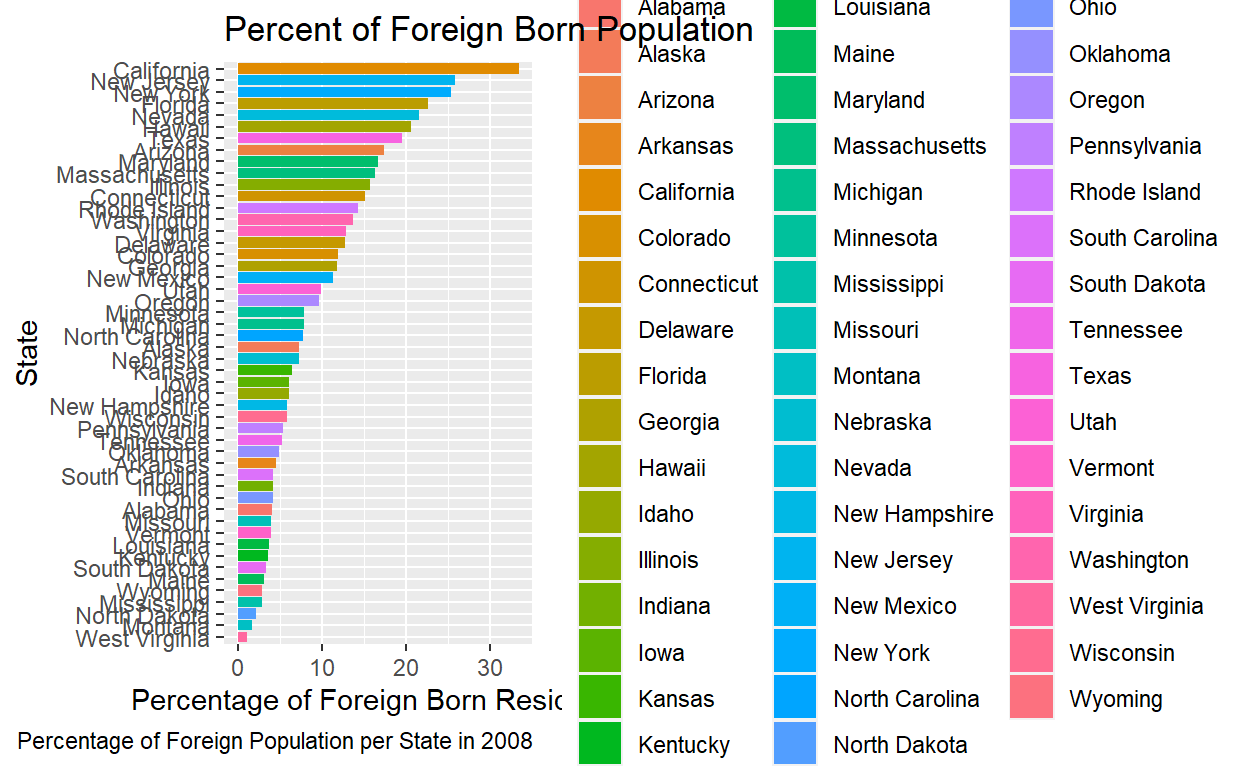
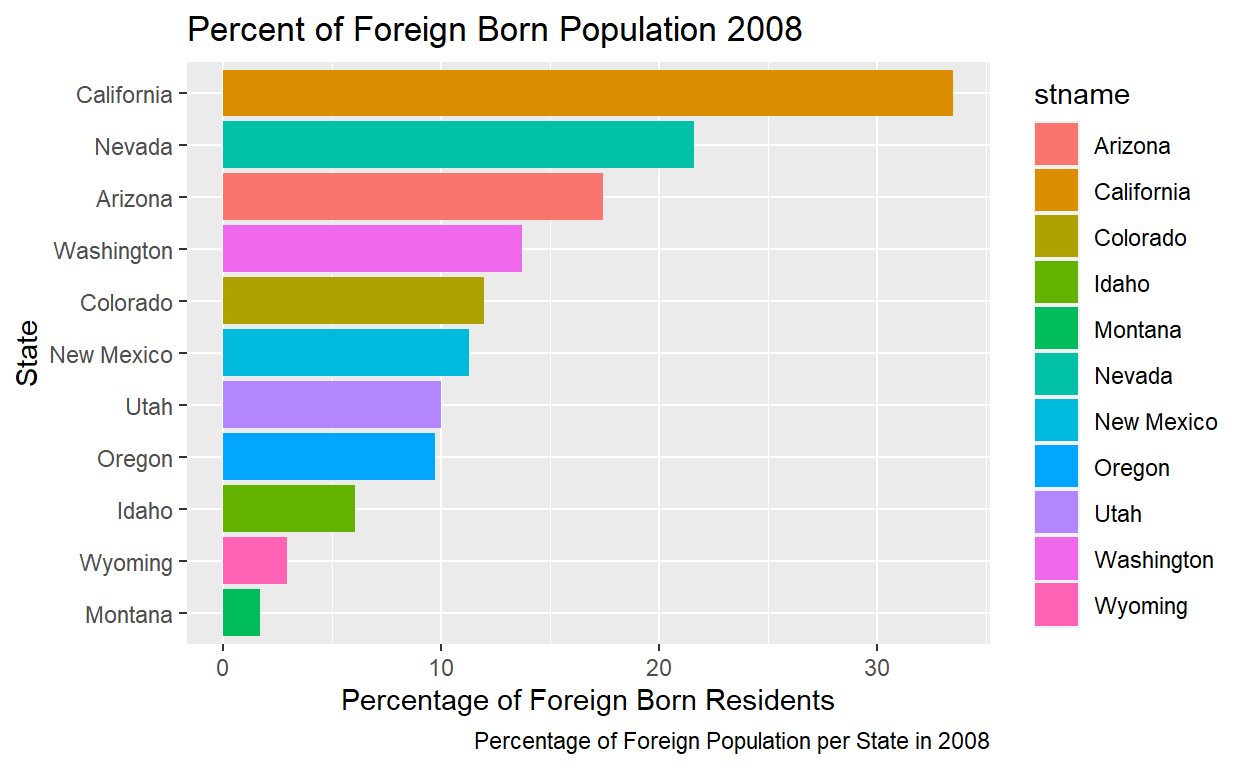
2 Visualizations

diff --git a/index.html b/index.html
@@ -115,7 +115,7 @@ code span.wa { color: #5e5e5e; font-style: italic; } /* Warning */
   <!--/radix_placeholder_rmarkdown_metadata-->
   
   <script type="text/json" id="radix-resource-manifest">
-  {"type":"character","attributes":{},"value":["index_files/anchor-4.2.2/anchor.min.js","index_files/bowser-1.9.3/bowser.min.js","index_files/distill-2.2.21/template.v2.js","index_files/figure-html5/unnamed-chunk-1-1.png","index_files/header-attrs-2.17/header-attrs.js","index_files/header-attrs-2.24/header-attrs.js","index_files/jquery-3.6.0/jquery-3.6.0.js","index_files/jquery-3.6.0/jquery-3.6.0.min.js","index_files/jquery-3.6.0/jquery-3.6.0.min.map","index_files/popper-2.6.0/popper.min.js","index_files/tippy-6.2.7/tippy-bundle.umd.min.js","index_files/tippy-6.2.7/tippy-light-border.css","index_files/tippy-6.2.7/tippy.css","index_files/tippy-6.2.7/tippy.umd.min.js","index_files/webcomponents-2.0.0/webcomponents.js","Raw data for Table1--Foreign-born population, 1996 and 2008.xlsx"]}
+  {"type":"character","attributes":{},"value":["FieldExp_Public.dta","index_files/anchor-4.2.2/anchor.min.js","index_files/bowser-1.9.3/bowser.min.js","index_files/distill-2.2.21/template.v2.js","index_files/figure-html5/unnamed-chunk-1-1.png","index_files/figure-html5/unnamed-chunk-1-2.png","index_files/figure-html5/unnamed-chunk-2-1.png","index_files/header-attrs-2.17/header-attrs.js","index_files/header-attrs-2.24/header-attrs.js","index_files/jquery-3.6.0/jquery-3.6.0.js","index_files/jquery-3.6.0/jquery-3.6.0.min.js","index_files/jquery-3.6.0/jquery-3.6.0.min.map","index_files/popper-2.6.0/popper.min.js","index_files/tippy-6.2.7/tippy-bundle.umd.min.js","index_files/tippy-6.2.7/tippy-light-border.css","index_files/tippy-6.2.7/tippy.css","index_files/tippy-6.2.7/tippy.umd.min.js","index_files/webcomponents-2.0.0/webcomponents.js","Raw data for Table1--Foreign-born population, 1996 and 2008.xlsx"]}
   </script>
   <!--radix_placeholder_navigation_in_header-->
   <!--/radix_placeholder_navigation_in_header-->
@@ -1518,7 +1518,8 @@ code span.wa { color: #5e5e5e; font-style: italic; } /* Warning */
 
 <div class="d-article">
 <h2 id="project-thoughts">Project thoughts</h2>
-<h2 id="new-research-question-for-milestone-2">New Research Question for Milestone 2</h2>
+<h2 id="milestone-4-is-on-parental-discrimination-on-the-bottom-of-this-page.">Milestone 4 is on Parental Discrimination on the bottom of this page.</h2>
+<p>New Project Idea found at the bottom of this page</p>
 <p>Does opinion about the country’s economic situation impact a willingness to accept cultural pluralism?</p>
 <p>I hypothesize that higher citizen concern with the country’s economic situation is connected to a negative impact on the citizens’ opinions on cultural pluralism within the United States. Throughout history, acts of xenophia and hate have emerged from the scapegoating of different groups people for a country’s problems, including financial crisis. I want to conduct a study that explores this relationship in the United States; I expect to see support for cultural pluralism decrease with concerns for the United States economic standing.</p>
 <p>I will use a study conducted by Pew Research Center in 2021. The explanatory variable will be the answer to the following question:“Thinking about our economic situation, how would you describe the current economic situation in the U.S.? … (1)Very Good, (2)Somewhat Good, (3)Somewhat Bad, (4) Very Bad. Higher numbers will be recorded as a less positive view of the country’s economy. For my outcome variable I will be using the results from the following question:”Overall, do you think having people of many different backgrounds, such as different ethnic groups, religions and races, makes the U.S. … (1) A better place to live, (2) A worse place to live.” Answering “yes” (or recording a 1) to the question will be interpreted as a yes to cultural pluralism, and answering “no” (or recording a 2) will be considered a no.</p>
@@ -1533,18 +1534,110 @@ politics$GAP21Q1_W82</p>
 <span><span class='kw'><a href='https://rdrr.io/r/base/library.html'>library</a></span><span class='op'>(</span><span class='va'><a href='https://readxl.tidyverse.org'>readxl</a></span><span class='op'>)</span></span>
 <span><span class='kw'><a href='https://rdrr.io/r/base/library.html'>library</a></span><span class='op'>(</span><span class='va'><a href='https://ggplot2.tidyverse.org'>ggplot2</a></span><span class='op'>)</span></span>
 <span></span>
-<span><span class='va'>Foreign</span> <span class='op'>&lt;-</span> <span class='fu'><a href='https://readxl.tidyverse.org/reference/read_excel.html'>read_excel</a></span><span class='op'>(</span><span class='st'>"Raw data for Table1--Foreign-born population, 1996 and 2008.xlsx"</span><span class='op'>)</span></span>
+<span><span class='va'>Foreign</span> <span class='op'>&lt;-</span> <span class='fu'><a href='https://rdrr.io/pkg/readxl/man/read_excel.html'>read_excel</a></span><span class='op'>(</span><span class='st'>"Raw data for Table1--Foreign-born population, 1996 and 2008.xlsx"</span><span class='op'>)</span></span>
 <span></span>
-<span><span class='va'>fpop</span> <span class='op'>&lt;-</span> <span class='va'>Foreign</span><span class='op'>|&gt;</span></span>
-<span>  <span class='fu'><a href='https://dplyr.tidyverse.org/reference/filter.html'>filter</a></span><span class='op'>(</span><span class='va'>year</span> <span class='op'>==</span> <span class='fl'>2008</span><span class='op'>)</span><span class='op'>|&gt;</span></span>
-<span>  <span class='fu'><a href='https://ggplot2.tidyverse.org/reference/ggplot.html'>ggplot</a></span><span class='op'>(</span><span class='va'>data</span>, mapping <span class='op'>=</span> <span class='fu'><a href='https://ggplot2.tidyverse.org/reference/aes.html'>aes</a></span><span class='op'>(</span>y<span class='op'>=</span><span class='fu'><a href='https://forcats.tidyverse.org/reference/fct_reorder.html'>fct_reorder</a></span><span class='op'>(</span><span class='va'>state.name</span>,<span class='va'>pforeign</span><span class='op'>)</span>, x<span class='op'>=</span><span class='va'>pforeign</span><span class='op'>)</span><span class='op'>)</span> <span class='op'>+</span> </span>
-<span>    <span class='fu'><a href='https://ggplot2.tidyverse.org/reference/geom_bar.html'>geom_col</a></span><span class='op'>(</span>mapping <span class='op'>=</span> <span class='fu'><a href='https://ggplot2.tidyverse.org/reference/aes.html'>aes</a></span><span class='op'>(</span>fill <span class='op'>=</span> <span class='va'>state.name</span><span class='op'>)</span><span class='op'>)</span> <span class='op'>+</span> <span class='fu'><a href='https://ggplot2.tidyverse.org/reference/labs.html'>labs</a></span><span class='op'>(</span>title <span class='op'>=</span> <span class='st'>"Percent of Foreign Born Population"</span>, color <span class='op'>=</span> <span class='st'>"State"</span>,caption<span class='op'>=</span><span class='st'>"Percentage of Foreign Population per State in 2008"</span>, x<span class='op'>=</span><span class='st'>"Percentage of Foreign Born Residents"</span>, y<span class='op'>=</span><span class='st'>"State"</span><span class='op'>)</span></span>
 <span></span>
-<span><span class='va'>fpop</span></span></code></pre>
+<span><span class='va'>west</span> <span class='op'>&lt;-</span> <span class='fu'><a href='https://rdrr.io/r/base/c.html'>c</a></span><span class='op'>(</span><span class='st'>"Arizona"</span>, <span class='st'>"California"</span>, <span class='st'>"Colorado"</span>, <span class='st'>"Idaho"</span>, <span class='st'>"Montana"</span>, <span class='st'>"Nevada"</span>, <span class='st'>"New Mexico"</span>, <span class='st'>"Oregon"</span>,<span class='st'>"Utah"</span>, <span class='st'>"Washington"</span>, <span class='st'>"Wyoming"</span><span class='op'>)</span></span>
+<span></span>
+<span></span>
+<span><span class='va'>fpop_2008</span> <span class='op'>&lt;-</span> <span class='va'>Foreign</span><span class='op'>|&gt;</span></span>
+<span>  <span class='fu'><a href='https://rdrr.io/pkg/dplyr/man/filter.html'>filter</a></span><span class='op'>(</span><span class='va'>year</span> <span class='op'>==</span> <span class='fl'>2008</span>, <span class='va'>stname</span> <span class='op'><a href='https://rdrr.io/r/base/match.html'>%in%</a></span> <span class='va'>west</span><span class='op'>)</span></span>
+<span></span>
+<span><span class='va'>fpop_2008_table</span> <span class='op'>&lt;-</span> <span class='va'>fpop_2008</span><span class='op'>|&gt;</span></span>
+<span>  <span class='fu'><a href='https://rdrr.io/pkg/ggplot2/man/ggplot.html'>ggplot</a></span><span class='op'>(</span><span class='va'>data</span>, mapping <span class='op'>=</span> <span class='fu'><a href='https://rdrr.io/pkg/ggplot2/man/aes.html'>aes</a></span><span class='op'>(</span>y<span class='op'>=</span><span class='fu'><a href='https://rdrr.io/pkg/forcats/man/fct_reorder.html'>fct_reorder</a></span><span class='op'>(</span><span class='va'>stname</span>,<span class='va'>pforeign</span><span class='op'>)</span>, x<span class='op'>=</span><span class='va'>pforeign</span><span class='op'>)</span><span class='op'>)</span> <span class='op'>+</span> </span>
+<span>    <span class='fu'><a href='https://rdrr.io/pkg/ggplot2/man/geom_bar.html'>geom_col</a></span><span class='op'>(</span>mapping <span class='op'>=</span> <span class='fu'><a href='https://rdrr.io/pkg/ggplot2/man/aes.html'>aes</a></span><span class='op'>(</span>fill <span class='op'>=</span> <span class='va'>stname</span><span class='op'>)</span><span class='op'>)</span> <span class='op'>+</span> <span class='fu'><a href='https://rdrr.io/pkg/ggplot2/man/labs.html'>labs</a></span><span class='op'>(</span>title <span class='op'>=</span> <span class='st'>"Percent of Foreign Born Population 2008"</span>, color <span class='op'>=</span> <span class='st'>"State"</span>,caption<span class='op'>=</span><span class='st'>"Percentage of Foreign Population per State in 2008"</span>, x<span class='op'>=</span><span class='st'>"Percentage of Foreign Born Residents"</span>, y<span class='op'>=</span><span class='st'>"State"</span><span class='op'>)</span></span>
+<span></span>
+<span><span class='va'>fpop_2008_table</span></span></code></pre>
 </div>
-<p><img src="index_files/figure-html5/unnamed-chunk-1-1.png" width="624" /></p>
+<img src="index_files/figure-html5/unnamed-chunk-1-1.png" width="624" />
+<div class="sourceCode">
+<pre class="sourceCode r"><code class="sourceCode r"><span><span class='va'>fpop_1996</span> <span class='op'>&lt;-</span> <span class='va'>Foreign</span><span class='op'>|&gt;</span></span>
+<span>  <span class='fu'><a href='https://rdrr.io/pkg/dplyr/man/filter.html'>filter</a></span><span class='op'>(</span><span class='va'>year</span> <span class='op'>==</span> <span class='fl'>1996</span>, <span class='va'>stname</span> <span class='op'><a href='https://rdrr.io/r/base/match.html'>%in%</a></span> <span class='va'>west</span><span class='op'>)</span></span>
+<span></span>
+<span><span class='va'>fpop_1996_table</span> <span class='op'>&lt;-</span> <span class='va'>fpop_1996</span><span class='op'>|&gt;</span></span>
+<span>  <span class='fu'><a href='https://rdrr.io/pkg/ggplot2/man/ggplot.html'>ggplot</a></span><span class='op'>(</span><span class='va'>data</span>, mapping <span class='op'>=</span> <span class='fu'><a href='https://rdrr.io/pkg/ggplot2/man/aes.html'>aes</a></span><span class='op'>(</span>y<span class='op'>=</span><span class='fu'><a href='https://rdrr.io/pkg/forcats/man/fct_reorder.html'>fct_reorder</a></span><span class='op'>(</span><span class='va'>stname</span>,<span class='va'>pforeign</span><span class='op'>)</span>, x<span class='op'>=</span><span class='va'>pforeign</span><span class='op'>)</span><span class='op'>)</span> <span class='op'>+</span> </span>
+<span>    <span class='fu'><a href='https://rdrr.io/pkg/ggplot2/man/geom_bar.html'>geom_col</a></span><span class='op'>(</span>mapping <span class='op'>=</span> <span class='fu'><a href='https://rdrr.io/pkg/ggplot2/man/aes.html'>aes</a></span><span class='op'>(</span>fill <span class='op'>=</span> <span class='va'>stname</span><span class='op'>)</span><span class='op'>)</span> <span class='op'>+</span> <span class='fu'><a href='https://rdrr.io/pkg/ggplot2/man/labs.html'>labs</a></span><span class='op'>(</span>title <span class='op'>=</span> <span class='st'>"Percent of Foreign Born Population 1996"</span>, color <span class='op'>=</span> <span class='st'>"State"</span>,caption<span class='op'>=</span><span class='st'>"Percentage of Foreign Population per State in 1996"</span>, x<span class='op'>=</span><span class='st'>"Percentage of Foreign Born Residents"</span>, y<span class='op'>=</span><span class='st'>"State"</span><span class='op'>)</span></span>
+<span></span>
+<span><span class='va'>fpop_1996_table</span></span></code></pre>
 </div>
-<div class="sourceCode" id="cb1"><pre class="sourceCode r distill-force-highlighting-css"><code class="sourceCode r"></code></pre></div>
+<p><img src="index_files/figure-html5/unnamed-chunk-1-2.png" width="624" /></p>
+</div>
+<div class="layout-chunk" data-layout="l-body">
+<div class="sourceCode">
+<pre class="sourceCode r"><code class="sourceCode r"><span><span class='kw'><a href='https://rdrr.io/r/base/library.html'>library</a></span><span class='op'>(</span><span class='va'><a href='https://haven.tidyverse.org'>haven</a></span><span class='op'>)</span></span>
+<span><span class='va'>jobs</span> <span class='op'>&lt;-</span> <span class='fu'><a href='https://rdrr.io/pkg/haven/man/read_dta.html'>read_dta</a></span><span class='op'>(</span><span class='st'>"FieldExp_Public.dta"</span><span class='op'>)</span></span>
+<span></span>
+<span></span>
+<span><span class='va'>parent_jobs</span> <span class='op'>&lt;-</span> <span class='va'>jobs</span><span class='op'>|&gt;</span></span>
+<span>  <span class='fu'><a href='https://rdrr.io/pkg/dplyr/man/filter.html'>filter</a></span><span class='op'>(</span><span class='va'>parent</span><span class='op'>==</span><span class='fl'>1</span><span class='op'>)</span><span class='op'>|&gt;</span></span>
+<span>  <span class='fu'><a href='https://rdrr.io/pkg/dplyr/man/mutate.html'>mutate</a></span><span class='op'>(</span>parent <span class='op'>=</span> <span class='fu'><a href='https://rdrr.io/pkg/dplyr/man/if_else.html'>if_else</a></span><span class='op'>(</span><span class='va'>woman</span><span class='op'>==</span><span class='fl'>1</span>, <span class='st'>"Mother"</span>, <span class='st'>"Father"</span><span class='op'>)</span>, callback <span class='op'>=</span> <span class='fu'><a href='https://rdrr.io/pkg/dplyr/man/if_else.html'>if_else</a></span><span class='op'>(</span><span class='va'>callback</span><span class='op'>==</span><span class='fl'>1</span>,<span class='st'>"Call back"</span>, <span class='st'>"No call back"</span><span class='op'>)</span><span class='op'>)</span></span>
+<span></span>
+<span><span class='va'>parent_jobs</span></span></code></pre>
+</div>
+<pre><code># A tibble: 1,994 × 7
+      id callback     black     woman     parent msa        occupation
+   &lt;dbl&gt; &lt;chr&gt;        &lt;dbl+lbl&gt; &lt;dbl+lbl&gt; &lt;chr&gt;  &lt;chr&gt;      &lt;dbl+lbl&gt; 
+ 1     4 No call back 0 [White] 0 [Man]   Father Los Angel… 5 [Low Sk…
+ 2     4 No call back 1 [Black] 1 [Woman] Mother Los Angel… 5 [Low Sk…
+ 3    11 No call back 1 [Black] 1 [Woman] Mother Los Angel… 5 [Low Sk…
+ 4    11 Call back    1 [Black] 0 [Man]   Father Los Angel… 5 [Low Sk…
+ 5    13 No call back 0 [White] 1 [Woman] Mother Los Angel… 5 [Low Sk…
+ 6    13 No call back 1 [Black] 1 [Woman] Mother Los Angel… 5 [Low Sk…
+ 7    14 No call back 0 [White] 0 [Man]   Father Los Angel… 5 [Low Sk…
+ 8    14 No call back 1 [Black] 1 [Woman] Mother Los Angel… 5 [Low Sk…
+ 9    18 No call back 1 [Black] 1 [Woman] Mother Los Angel… 5 [Low Sk…
+10    18 No call back 1 [Black] 0 [Man]   Father Los Angel… 5 [Low Sk…
+# ℹ 1,984 more rows</code></pre>
+<div class="sourceCode">
+<pre class="sourceCode r"><code class="sourceCode r"><span><span class='va'>parent_jobs_prop</span> <span class='op'>&lt;-</span> <span class='va'>parent_jobs</span><span class='op'>|&gt;</span></span>
+<span>  <span class='fu'><a href='https://rdrr.io/pkg/dplyr/man/group_by.html'>group_by</a></span><span class='op'>(</span><span class='va'>callback</span>, <span class='va'>parent</span><span class='op'>)</span><span class='op'>|&gt;</span></span>
+<span>  <span class='fu'><a href='https://rdrr.io/pkg/dplyr/man/summarise.html'>summarize</a></span><span class='op'>(</span>n<span class='op'>=</span><span class='fu'><a href='https://rdrr.io/pkg/dplyr/man/context.html'>n</a></span><span class='op'>(</span><span class='op'>)</span><span class='op'>)</span><span class='op'>|&gt;</span></span>
+<span>  <span class='fu'><a href='https://rdrr.io/pkg/dplyr/man/mutate.html'>mutate</a></span><span class='op'>(</span>prop<span class='op'>=</span><span class='va'>n</span><span class='op'>/</span><span class='fu'><a href='https://rdrr.io/r/base/sum.html'>sum</a></span><span class='op'>(</span><span class='va'>n</span><span class='op'>)</span><span class='op'>)</span><span class='op'>|&gt;</span></span>
+<span>  <span class='fu'><a href='https://rdrr.io/pkg/dplyr/man/select.html'>select</a></span><span class='op'>(</span><span class='op'>-</span><span class='va'>n</span><span class='op'>)</span></span>
+<span></span>
+<span><span class='fu'>knitr</span><span class='fu'>::</span><span class='fu'><a href='https://rdrr.io/pkg/knitr/man/kable.html'>kable</a></span><span class='op'>(</span><span class='va'>parent_jobs_prop</span><span class='op'>)</span></span></code></pre>
+</div>
+<table>
+<thead>
+<tr class="header">
+<th style="text-align: left;">callback</th>
+<th style="text-align: left;">parent</th>
+<th style="text-align: right;">prop</th>
+</tr>
+</thead>
+<tbody>
+<tr class="odd">
+<td style="text-align: left;">Call back</td>
+<td style="text-align: left;">Father</td>
+<td style="text-align: right;">0.5123457</td>
+</tr>
+<tr class="even">
+<td style="text-align: left;">Call back</td>
+<td style="text-align: left;">Mother</td>
+<td style="text-align: right;">0.4876543</td>
+</tr>
+<tr class="odd">
+<td style="text-align: left;">No call back</td>
+<td style="text-align: left;">Father</td>
+<td style="text-align: right;">0.4820359</td>
+</tr>
+<tr class="even">
+<td style="text-align: left;">No call back</td>
+<td style="text-align: left;">Mother</td>
+<td style="text-align: right;">0.5179641</td>
+</tr>
+</tbody>
+</table>
+<div class="sourceCode">
+<pre class="sourceCode r"><code class="sourceCode r"><span><span class='va'>parent_jobs_prop</span><span class='op'>|&gt;</span></span>
+<span>  <span class='fu'><a href='https://rdrr.io/pkg/ggplot2/man/ggplot.html'>ggplot</a></span><span class='op'>(</span><span class='fu'><a href='https://rdrr.io/pkg/ggplot2/man/aes.html'>aes</a></span><span class='op'>(</span>x <span class='op'>=</span> <span class='va'>callback</span>, y <span class='op'>=</span> <span class='va'>prop</span>, fill <span class='op'>=</span> <span class='va'>parent</span><span class='op'>)</span><span class='op'>)</span> <span class='op'>+</span></span>
+<span>  <span class='fu'><a href='https://rdrr.io/pkg/ggplot2/man/geom_bar.html'>geom_col</a></span><span class='op'>(</span>position <span class='op'>=</span> <span class='st'>"dodge"</span><span class='op'>)</span> <span class='op'>+</span></span>
+<span>  <span class='fu'><a href='https://rdrr.io/pkg/ggplot2/man/scale_manual.html'>scale_fill_manual</a></span><span class='op'>(</span>values <span class='op'>=</span> <span class='fu'><a href='https://rdrr.io/r/base/c.html'>c</a></span><span class='op'>(</span><span class='st'>"Father"</span><span class='op'>=</span> <span class='st'>"steelblue1"</span>, <span class='st'>"Mother"</span> <span class='op'>=</span> <span class='st'>"indianred1"</span><span class='op'>)</span><span class='op'>)</span> <span class='op'>+</span> <span class='fu'><a href='https://rdrr.io/pkg/ggplot2/man/labs.html'>labs</a></span><span class='op'>(</span>title<span class='op'>=</span><span class='st'>"Parents who received Callback"</span>, x<span class='op'>=</span><span class='st'>"Callback status"</span>, y<span class='op'>=</span><span class='st'>"Percentage"</span><span class='op'>)</span></span></code></pre>
+</div>
+<p><img src="index_files/figure-html5/unnamed-chunk-2-1.png" width="624" /></p>
+</div>
+<p>My new research question looks at the role of gender in parental discrimination. According to this barplot, mothers are less likely than fathers to receive a call back if their application signaled they were a mother. Within people who got a callback about 48.8% of them were mothers. In comparison, about 51.2% of them were fathers. Although this is not a huge difference, it prompts further study into what information this data has. I also plan to compare the number of callbacks between women and men as well as parents or non-parents to explain the data shown.</p>
+<div class="sourceCode" id="cb2"><pre class="sourceCode r distill-force-highlighting-css"><code class="sourceCode r"></code></pre></div>
 <!--radix_placeholder_article_footer-->
 <!--/radix_placeholder_article_footer-->
 </div>
